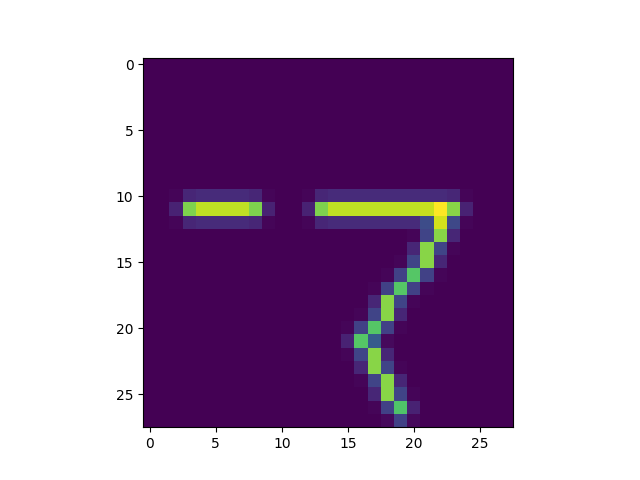
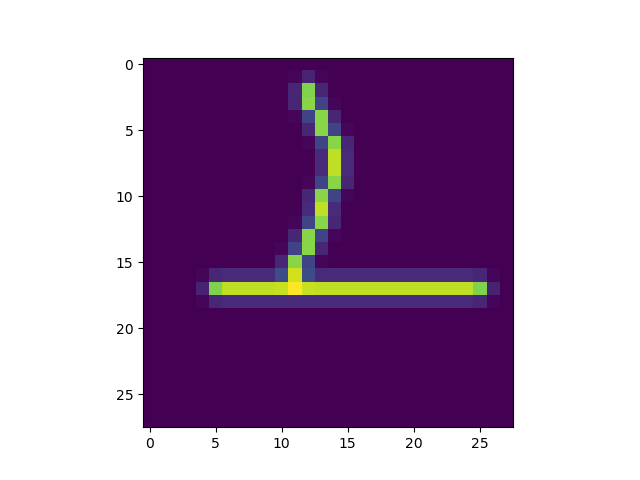
Fix markov test bug

diff --git a/src/main.py b/src/main.py
@@ -2,6 +2,7 @@ from prediction.markov import predict_next_letter
 from char_mapper import CharMapper
 from vectorconvert import get_image_for_ocr
 from keyboard_hooks import KeyHook
+import subprocess
 from prediction.inference import predict_letter_from_image
 import math
 import matplotlib
@@ -47,7 +48,7 @@ def finish_draw(keys: list[list[str]]):
     text_predictions = predict_next_letter(context)
     img_predictions = predict_letter_from_image(img)
     prediction = get_prediction(text_predictions, img_predictions)
-    print(prediction)
+    subprocess.run(["ydotool", "type", prediction])
     context += prediction
     img = np.rot90(img)
     img = np.fliplr(img)

diff --git a/src/prediction/markov.py b/src/prediction/markov.py
@@ -86,9 +86,6 @@ def _load_or_train_model():
     try:
         with open(_MODEL_PATH, "rb") as f:
             _model_probs = pickle.load(f)
-            text = _get_corpus()
-            test_idx = int(0.8 * len(text))
-            _test_model(text[test_idx:])
     except FileNotFoundError:
         _train_model()
     _model_loaded = True